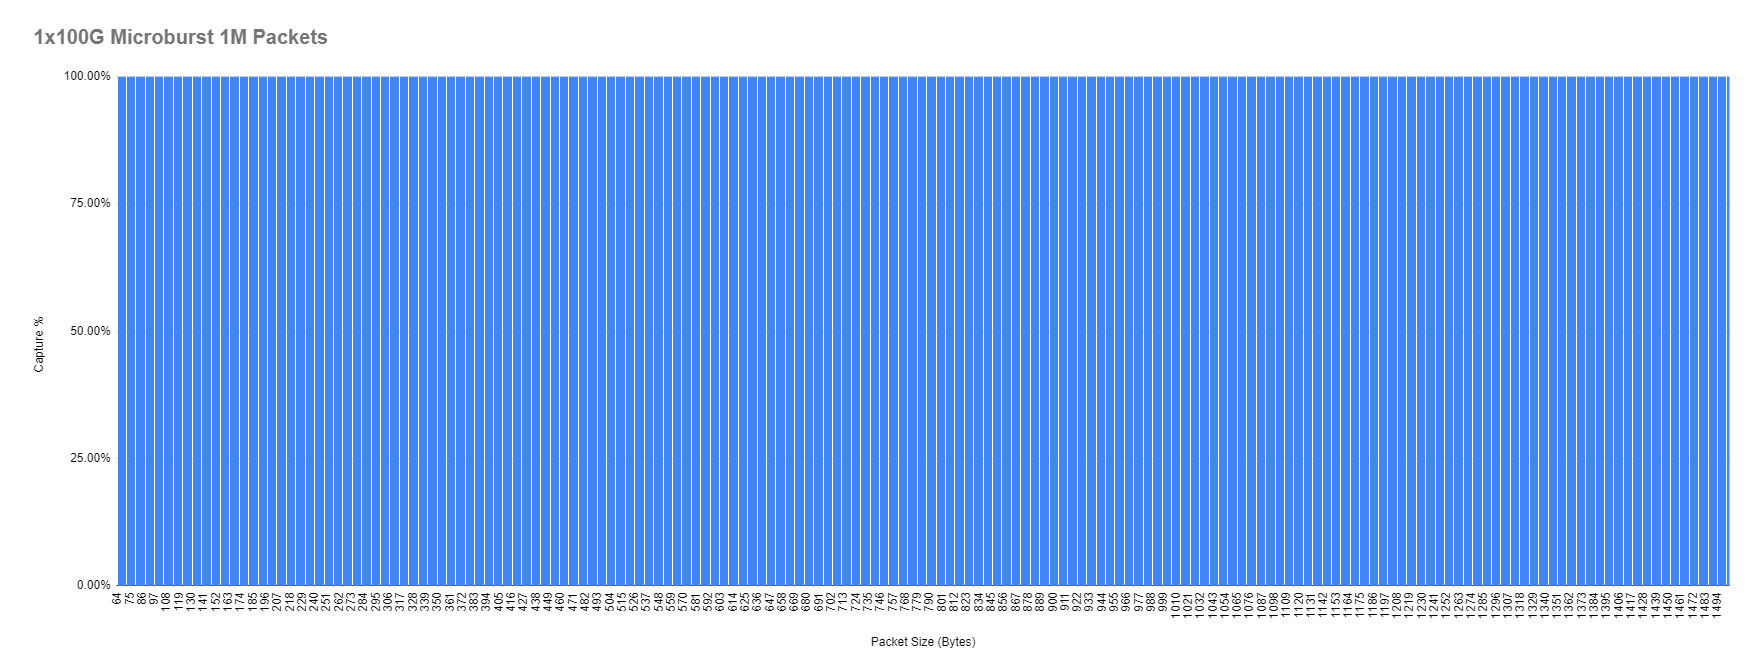
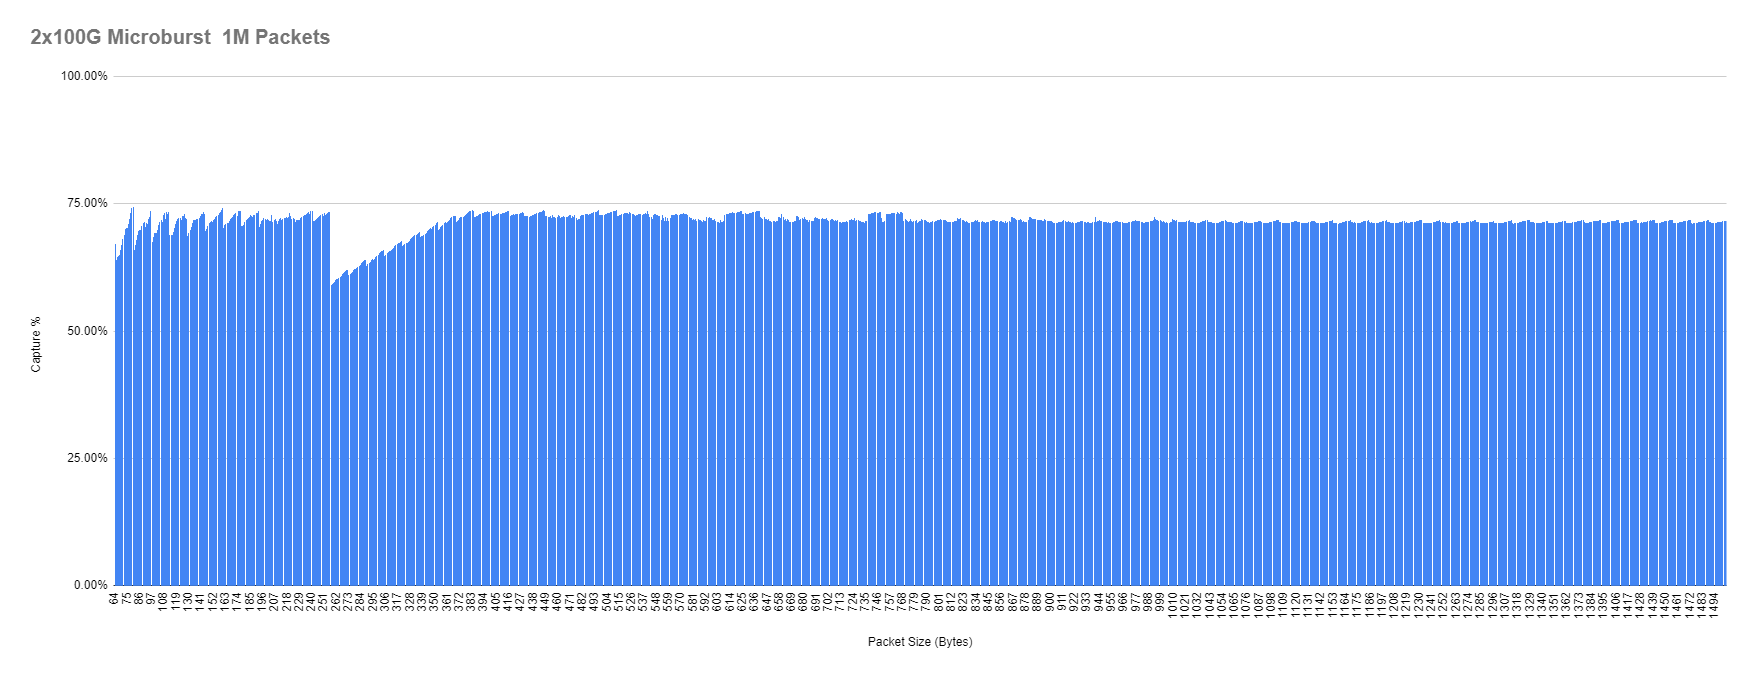
GitBook: [#435] No subject

diff --git a/troubleshooting/kvm-access-via-ipmi.md b/troubleshooting/kvm-access-via-ipmi.md
@@ -20,7 +20,7 @@ Login page looks like the following. Please contact support@fmad.io for default 
 
 Select "Remote Control" on the left menu
 
-![FMADIO IPMI Remote Control](<../.gitbook/assets/image (130) (1).png>)
+![FMADIO IPMI Remote Control](<../.gitbook/assets/image (130) (1) (1).png>)
 
 **STEP 3**
 

diff --git a/data-download/performance-capture.md b/data-download/performance-capture.md
@@ -60,6 +60,8 @@ Microburst of 100K packets per port 2 x 100G line rate 64B to 1500B packets
 
 Microburst of 1M Packets per port 2 x 100G line rate 64B to 1500B packets
 
+![2x100G Microburst @ 1M packets](<../.gitbook/assets/image (130).png>)
+
 
 
 
